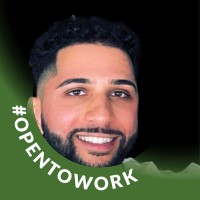
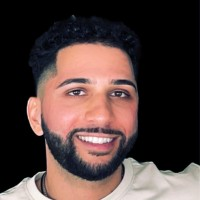
Update location in contact section to reflect accurate address; modify OG image

Changed region(s): [[0.0, 0.15, 1.0, 1.0]]

diff --git a/components/contact-section.tsx b/components/contact-section.tsx
@@ -153,7 +153,7 @@ export function ContactSection() {
                   </div>
                   <div>
                     <p className="text-sm font-medium">Location</p>
-                    <p className="text-sm text-muted-foreground">USA</p>
+                    <p className="text-sm text-muted-foreground">Gaithersburg, Maryland, United States</p>
                   </div>
                 </motion.div>
               </CardContent>
